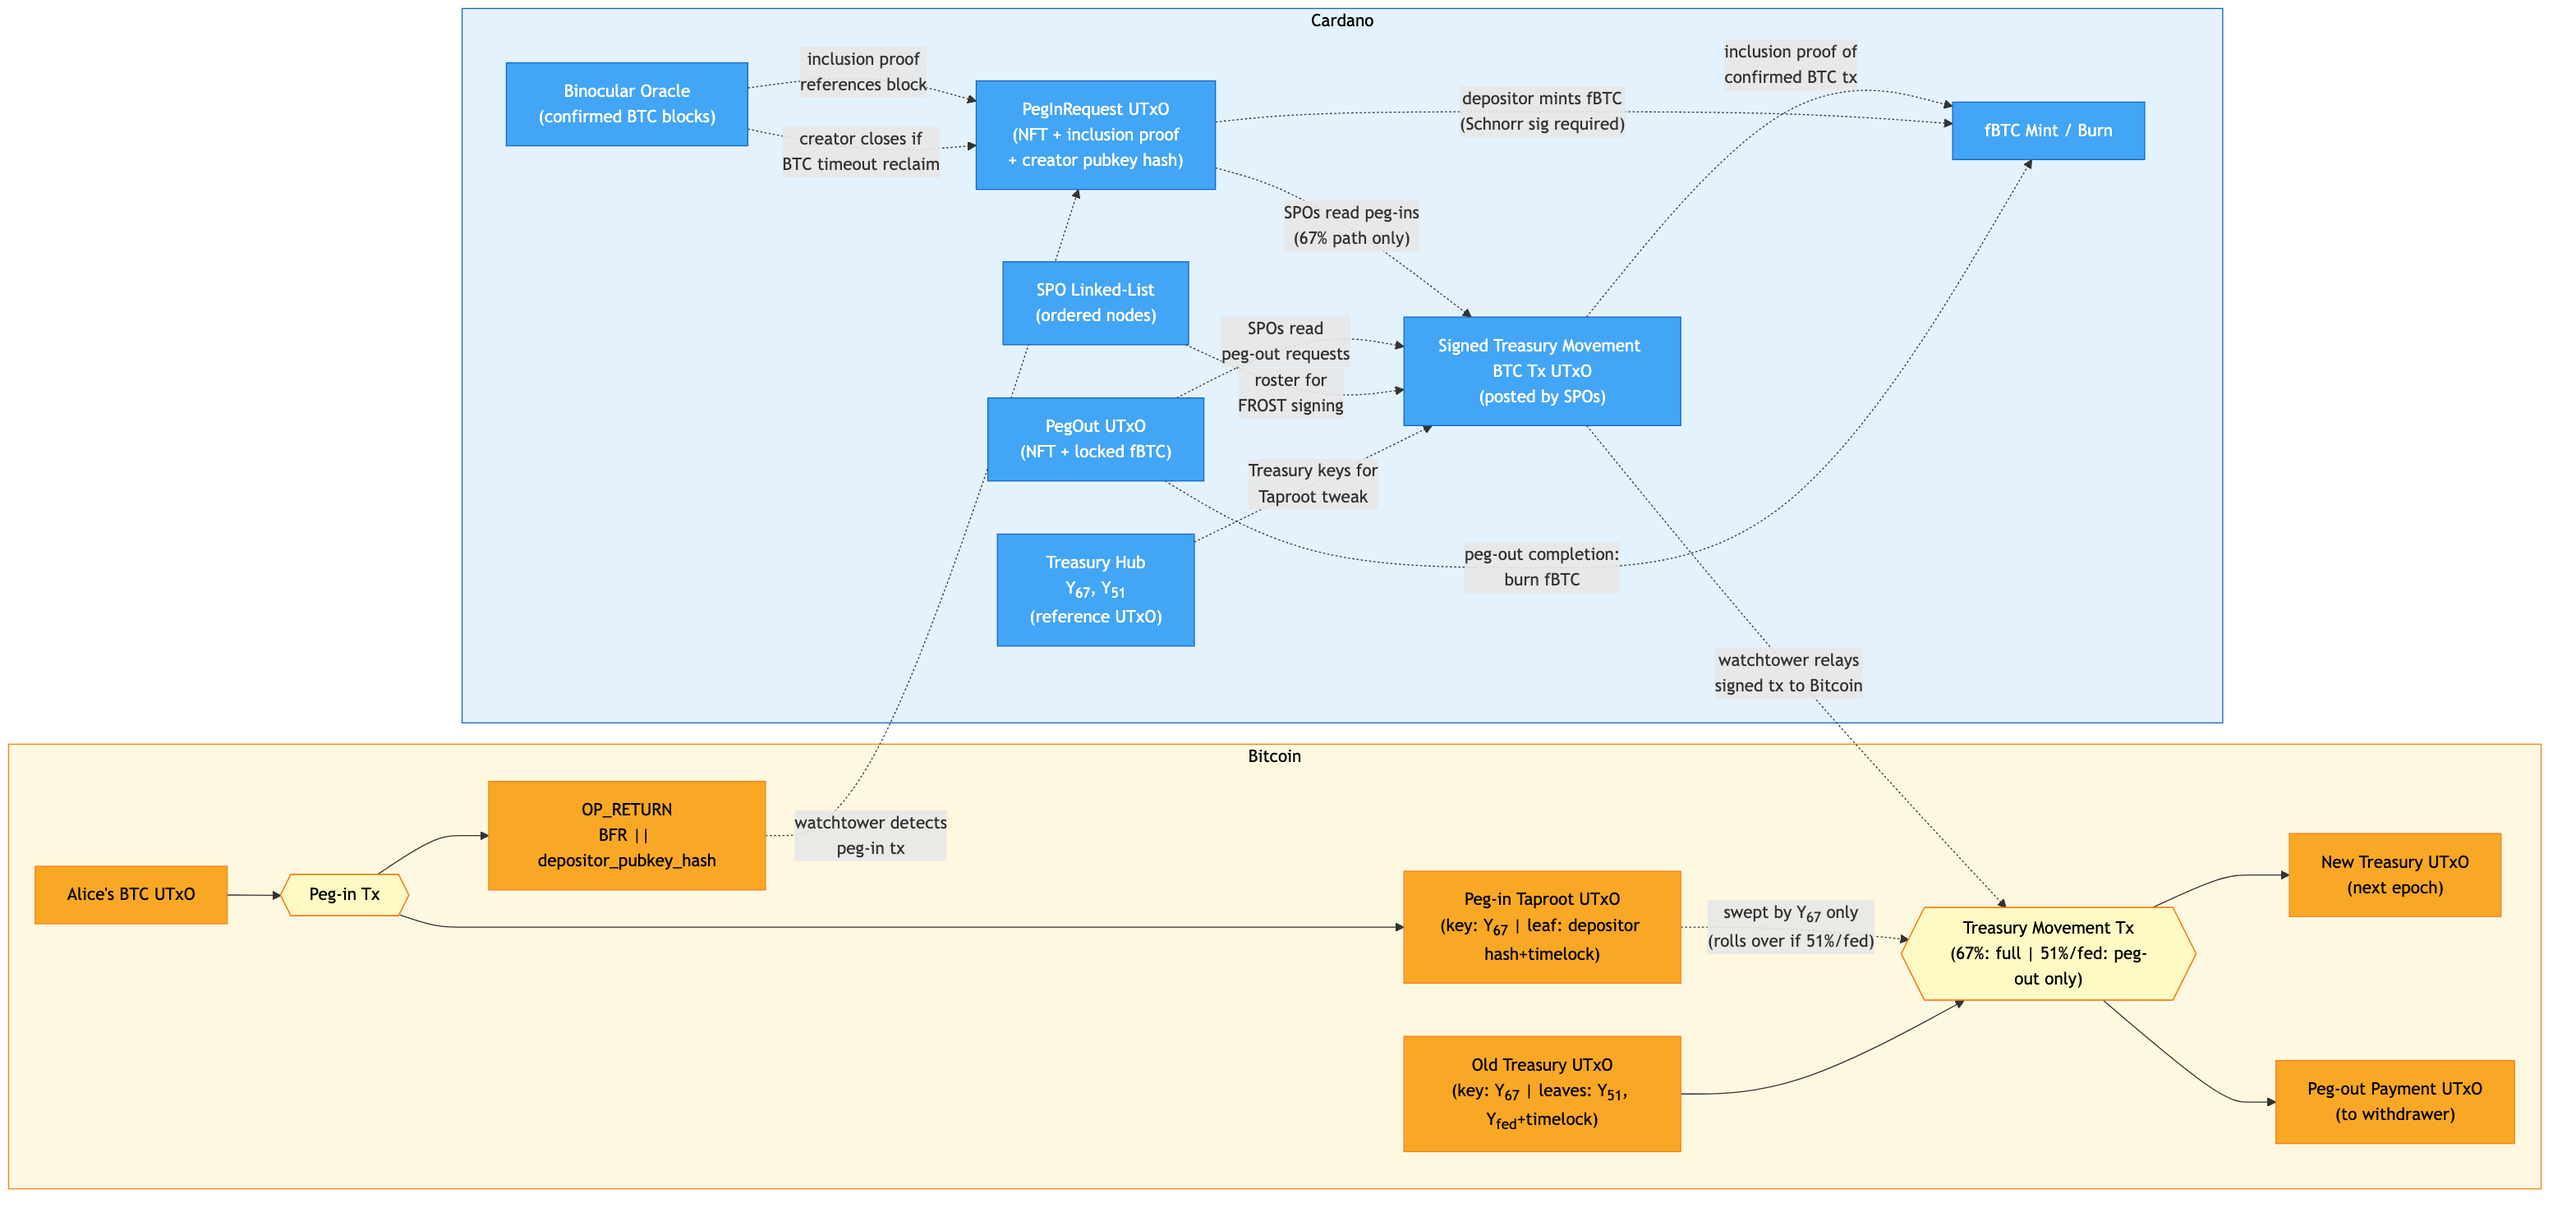
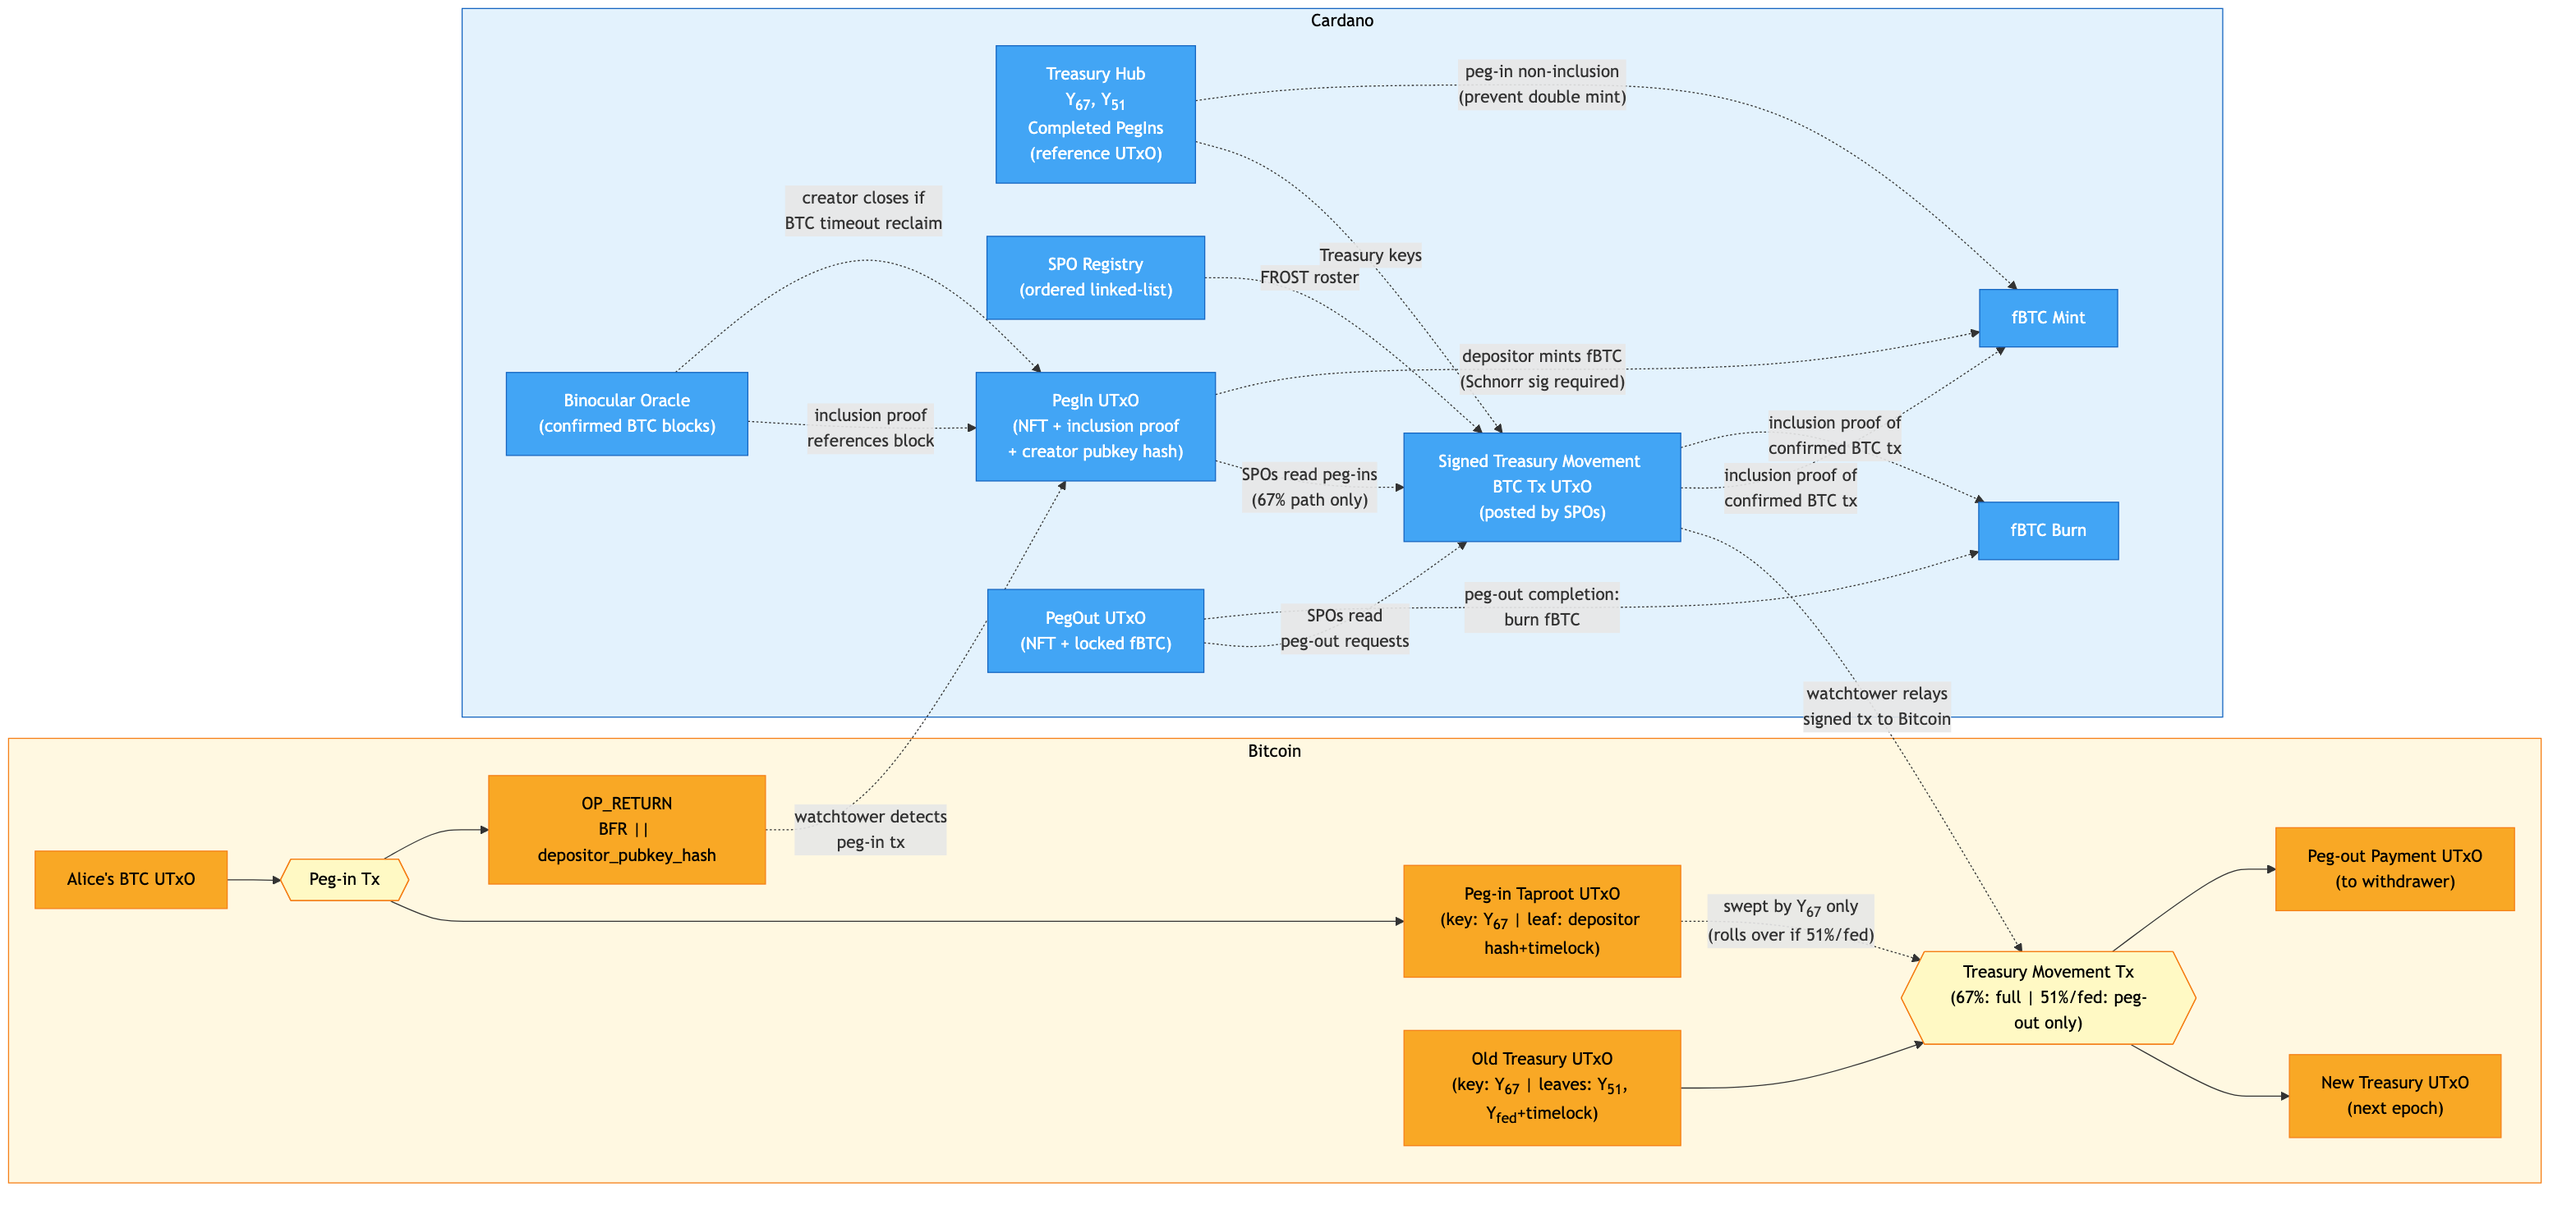
Update UTxO flow diagram and rename watchtower.ak to Binocular
- Split fBTC Mint/Burn into separate blocks
- Add Completed PegIns to Treasury Hub
- Add peg-in non-inclusion check for minting
- Add inclusion proof for fBTC burning
- Rename SPO Linked-List to SPO Registry
- Replace watchtower.ak with Binocular in technical docs

diff --git a/documentation/technical_documentation.md b/documentation/technical_documentation.md
@@ -48,7 +48,7 @@ Bifrost logic is fully encapsulated in the following solutions:
 * **Watchtower program**: watchtowers run this software on top of source blockchain and Cardano nodes. It posts source blockchain block headers to the Binocular Oracle, detects peg-in transactions and posts PegInRequest UTxOs on Cardano, and relays SPO-signed Treasury Movement transactions to the source blockchain.
 * Cardano smart contracts:
   * **spos_registry.ak**: SPOs that participate in Bifrost need to register here for the next upcoming epoch. The registry is an on-chain linked list ordered by SPOs edcs key and each node also contains the SPO secp key that will be used to sign source blockchain transactions.
-  * **watchtower.ak**: The watchtowers (anyone) post the best chain of blocks here, other watchtowers eventually challenge it by posting a better version and the winner gets rewarded by the end of the availability window.
+  * **Binocular**: The watchtowers (anyone) post the best chain of blocks here, other watchtowers eventually challenge it by posting a better version and the winner gets rewarded by the end of the availability window.
   * **peg_in.ak**: watchtowers (or anyone) create PegInRequest UTxOs here by minting a unique NFT and providing a Binocular inclusion proof of the source blockchain deposit transaction. The datum contains the depositor's Bitcoin pubkey hash (HASH160), source blockchain txid, output index, deposit amount, and the creator's Cardano pubkey hash. This makes peg-in deposits visible to SPOs for inclusion in the Treasury Movement transaction. If the peg-in is never swept (e.g., depositor reclaimed on Bitcoin via timeout), the creator can close the PegInRequest by providing a Binocular proof that the peg-in UTxO was spent on the source blockchain (timeout reclaim), burning the PegIn NFT and reclaiming their min_utxo ADA.
   * **peg_out.ak**: when a withdrawer wants to unlock the bridged assets on the proper source blockchain, he locks his bridged assets at this smart contract along with a freshly minted unique NFT. The datum contains the source blockchain destination address where assets should be sent. SPOs read these UTxOs to include peg-out payments in the Treasury Movement transaction.
   * **treasury.ak**: stores the current Treasury FROST group public keys $Y_{67}$ and $Y_{51}$ as a reference UTxO. These correspond to two FROST groups with thresholds ensuring any signing subset controls ≥67% and ≥51% of stake respectively. After each pair of DKGs, the current roster posts the new group public keys here, authenticated by a FROST group signature from the current roster. Depositors and validators read these to derive the current Treasury address. For the first epoch, the initial Treasury public keys are set during protocol bootstrap.
@@ -59,7 +59,7 @@ Bifrost logic is fully encapsulated in the following solutions:
 
 ![Bifrost Flow Chart](./images/Bifrost_flow_chart.png)
 
-Watchtowers, who run the watchtower program, challenge each other to be the first to post the best source blockchain chain of valid blocks in the Binocular Oracle smart contract (watchtower.ak). The winner for each chain is rewarded with some ADA, proportionally for each valid block posted.
+Watchtowers, who run the watchtower program, challenge each other to be the first to post the best source blockchain chain of valid blocks in the Binocular Oracle smart contract. The winner for each chain is rewarded with some ADA, proportionally for each valid block posted.
 
 Depositors, who want to peg-in, send their source blockchain assets to a unique Taproot address with an OP_RETURN metadata marker identifying the transaction as a Bifrost peg-in. Watchtowers detect these transactions on the source blockchain, and once confirmed, create PegInRequest UTxOs on Cardano (peg_in.ak) by minting an NFT and providing an inclusion proof.
 
@@ -691,7 +691,7 @@ Watchtowers use Binocular, a technology stack previously created and now improve
 
 1. **Monitor Bitcoin Network**: Watchtowers continuously track the Bitcoin blockchain for new blocks as they are mined.
 
-2. **Submit Block Headers**: When new Bitcoin blocks are found, watchtowers submit the 80-byte block headers to watchtower.ak, which is the Binocular Oracle smart contract on Cardano. These headers contain all information needed to verify Bitcoin consensus rules.
+2. **Submit Block Headers**: When new Bitcoin blocks are found, watchtowers submit the 80-byte block headers to Binocular Oracle smart contract on Cardano. These headers contain all information needed to verify Bitcoin consensus rules.
 
 3. **Compete for Accuracy**: Multiple watchtowers naturally compete to submit the most accurate chain. If a watchtower submits headers from an invalid or weaker fork, other watchtowers can challenge by submitting the correct chain with higher cumulative proof-of-work.
 
